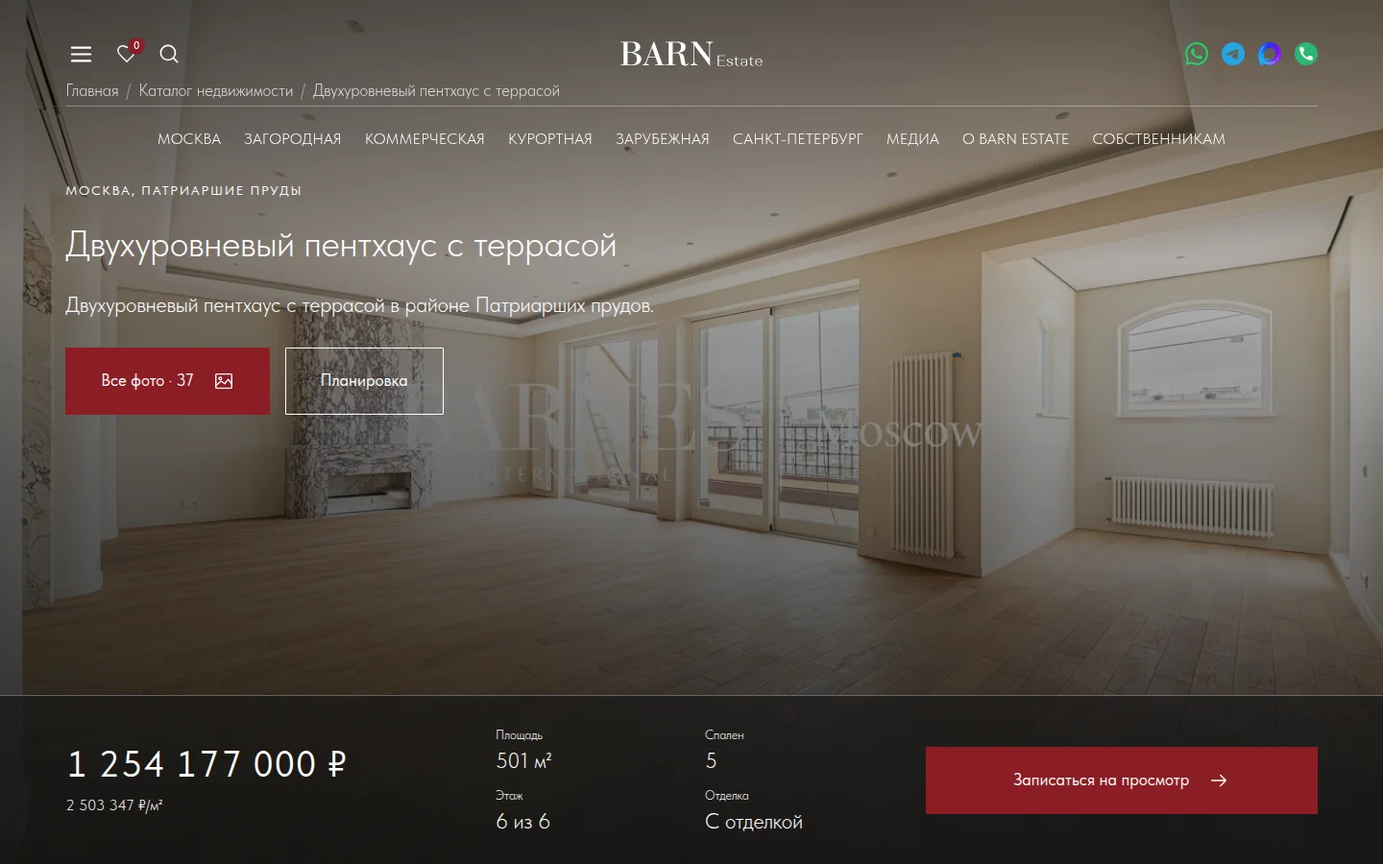
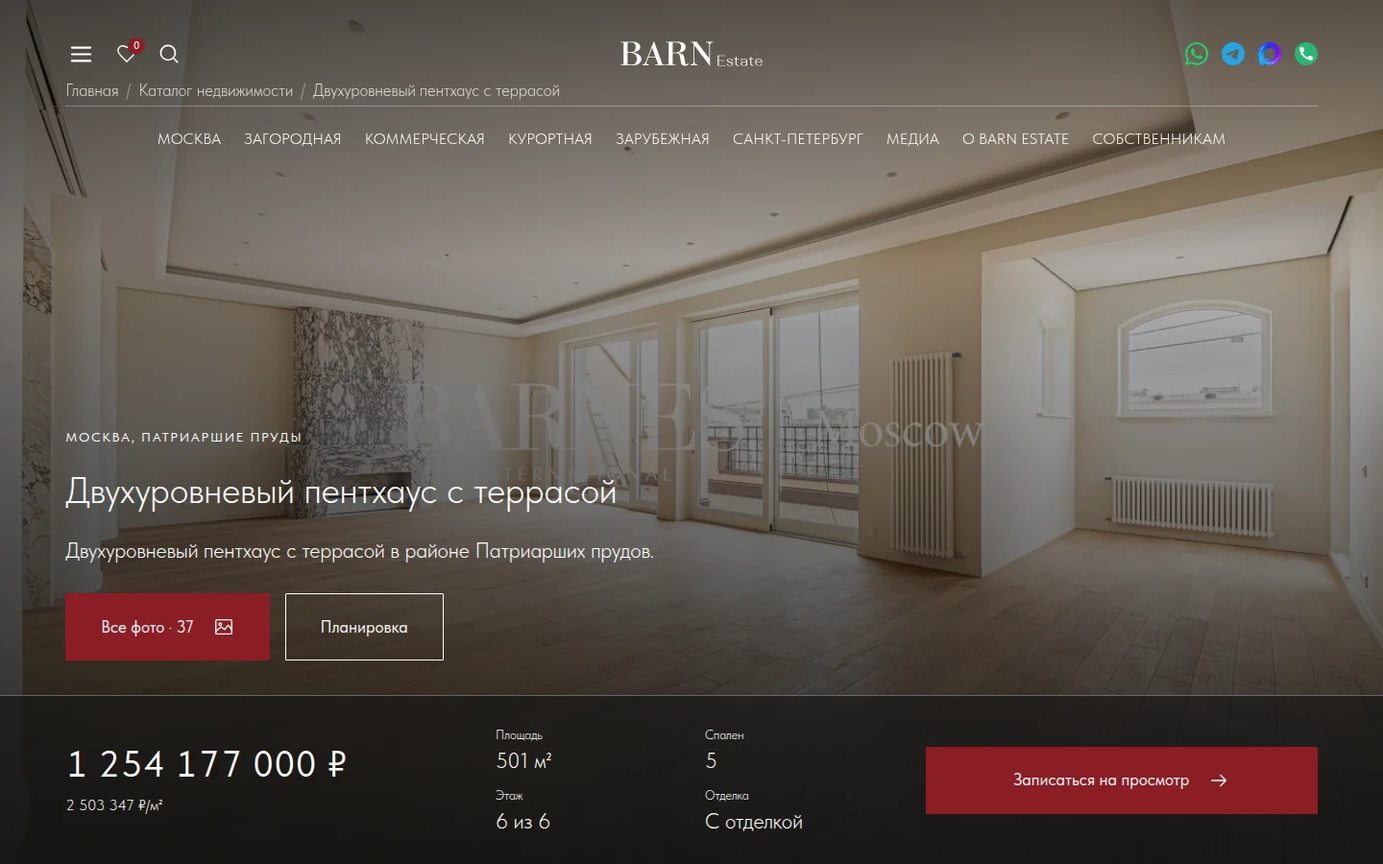
lot: publish hero 3 with title at bottom of photo

diff --git a/stranitsa-lota/hero-options/index.html b/stranitsa-lota/hero-options/index.html
@@ -1,1 +1,1 @@
-<!doctype html><html lang="ru"><head><meta charset="utf-8"><meta name="viewport" content="width=device-width,initial-scale=1"><meta name="robots" content="noindex,nofollow"><title>Пять полноэкранных херо — BARN Estate</title><style>@font-face{font-family:Tilda Sans;src:url('../fonts/TildaSans-Light.woff2') format('woff2');font-weight:300;font-display:swap}@font-face{font-family:Tilda Sans;src:url('../fonts/TildaSans-Regular.woff2') format('woff2');font-weight:400;font-display:swap}*{box-sizing:border-box}body{margin:0;color:#1e1e1e;background:#fff;font:300 18px/1.5 'Tilda Sans',Arial,sans-serif}a{color:inherit}header,main{max-width:1920px;margin:auto;padding-inline:clamp(24px,calc(-26.66667px + 6.59722vw),100px)}header{display:flex;align-items:center;justify-content:space-between;gap:24px;padding-block:28px;border-bottom:1px solid #d8d6d2}header img{width:172px;height:48px}header a:last-child{font-size:15px;text-underline-offset:4px}main{padding-block:72px 100px}h1{font-size:44px;line-height:1.2;font-weight:300;max-width:920px;margin:0}main>p{font-size:22px;line-height:33px;color:#4f4d49;max-width:970px;margin:24px 0 0}.eyebrow{font-size:14px;font-weight:400;letter-spacing:.12em;text-transform:uppercase;color:#4f4d49;margin:0}.quick-links{display:flex;gap:12px;flex-wrap:wrap;margin:32px 0 48px}.quick-links a{display:flex;align-items:center;justify-content:center;width:44px;height:44px;text-decoration:none;border:1px solid #8b8986;border-radius:1px;font-size:17px;font-weight:400}.cards{display:grid;grid-template-columns:1fr 1fr;gap:64px 40px}article{border-top:1px solid #d8d6d2;padding-top:24px;scroll-margin-top:24px}article:last-child{grid-column:1/-1;max-width:950px}.card-top{display:flex;align-items:center;justify-content:space-between;gap:20px}.recommend{font-size:13px;line-height:18px;color:#8b1d25}.cards h2{font-size:28px;line-height:1.2;font-weight:300;margin:20px 0 28px}.shots{display:grid;grid-template-columns:minmax(0,1fr) 88px;gap:12px;background:#f7f6f4;padding:12px;align-items:center}.shots img{width:100%;height:auto;display:block}.shots .phone{border:1px solid #d8d6d2}.description{font-size:20px;line-height:1.5;margin:24px 0 12px}.why{font-size:16px;line-height:1.5;color:#656462;margin:0 0 24px}.button{display:inline-flex;align-items:center;justify-content:space-between;gap:32px;min-height:70px;padding:16px 36px;background:#8b1d25;border:1px solid #8b1d25;border-radius:1px;font-size:17px;line-height:1.1;font-weight:400;color:#fff;text-decoration:none}.button span{font-size:22px}a:focus-visible{outline:2px solid #8b1d25;outline-offset:5px}@media(min-width:1441px){.button{font-size:19px;padding-inline:47px}}@media(max-width:900px){.cards{grid-template-columns:1fr;gap:48px}.cards article:last-child{grid-column:auto}}@media(max-width:540px){header,main{padding-inline:22px}header{padding-block:20px;gap:16px}header img{width:130px;height:36px}header a:last-child{font-size:13px}main{padding-block:48px}h1{font-size:22px}.eyebrow{font-size:12px}main>p{font-size:15px;line-height:21px;margin-top:16px}.quick-links{margin-bottom:32px}.cards h2{font-size:22px;margin-block:16px 24px}.shots{display:block;padding:0}.shots .phone{display:none}.description{font-size:17px;margin-top:20px}.why{font-size:15px}.button{width:100%;min-height:58px;padding:14px 24px;font-size:18px}}@media(prefers-reduced-motion:reduce){*{scroll-behavior:auto!important}}</style></head><body><header><a href="../"><img src="../kit/assets/logo.svg" alt="BARN Estate" width="172" height="48"></a><a href="../">К странице лота</a></header><main><p class="eyebrow" style="margin-bottom:24px">Страница лота · выбор первого экрана</p><h1>Пять вариантов с фотографией на весь экран</h1><p>Во всех вариантах фотография занимает весь первый экран. Меняется расположение названия, стоимости и действий. Шрифты, цвета и кнопки — из нашего UI-кита.</p><nav class="quick-links" aria-label="Варианты херо"><a href="#variant-1" aria-label="Вариант 1">01</a><a href="#variant-2" aria-label="Вариант 2">02</a><a href="#variant-3" aria-label="Вариант 3">03</a><a href="#variant-4" aria-label="Вариант 4">04</a><a href="#variant-5" aria-label="Вариант 5">05</a></nav><div class="cards"><article id="variant-1"><div class="card-top"><p class="eyebrow">Вариант 01</p><span class="recommend">Рекомендую</span></div><h2>Текст поверх фотографии</h2><a class="shots" href="../?hero=1&amp;v=hero-options-20261110" aria-label="Открыть вариант 1: Текст поверх фотографии"><img src="previews/1-desktop.webp" width="1440" height="900" alt="Вариант 1 на компьютере" loading="lazy"><img class="phone" src="previews/1-mobile.webp" width="390" height="844" alt="Вариант 1 на телефоне" loading="lazy"></a><p class="description">Название и описание слева, цена и запись справа. Максимум фотографии и минимум отдельных панелей.</p><p class="why">Спокойный и универсальный вариант.</p><a class="button" href="../?hero=1&amp;v=hero-options-20261110">Открыть вариант 1<span aria-hidden="true">↗</span></a></article><article id="variant-2"><div class="card-top"><p class="eyebrow">Вариант 02</p></div><h2>Белая карточка</h2><a class="shots" href="../?hero=2&amp;v=hero-options-20261110" aria-label="Открыть вариант 2: Белая карточка"><img src="previews/2-desktop.webp" width="1440" height="900" alt="Вариант 2 на компьютере" loading="lazy"><img class="phone" src="previews/2-mobile.webp" width="390" height="844" alt="Вариант 2 на телефоне" loading="lazy"></a><p class="description">Фотография продолжается за карточкой с ценой, параметрами и брокером. На телефоне карточка становится компактной.</p><p class="why">Самый привычный сценарий выбора объекта.</p><a class="button" href="../?hero=2&amp;v=hero-options-20261110">Открыть вариант 2<span aria-hidden="true">↗</span></a></article><article id="variant-3"><div class="card-top"><p class="eyebrow">Вариант 03</p></div><h2>Нижняя плашка</h2><a class="shots" href="../?hero=3&amp;v=hero-options-20261110" aria-label="Открыть вариант 3: Нижняя плашка"><img src="previews/3-desktop.webp" width="1440" height="900" alt="Вариант 3 на компьютере" loading="lazy"><img class="phone" src="previews/3-mobile.webp" width="390" height="844" alt="Вариант 3 на телефоне" loading="lazy"></a><p class="description">Название в верхней части кадра, а стоимость, основные параметры и запись — в одной нижней полосе.</p><p class="why">Больше свободного места в центре фотографии.</p><a class="button" href="../?hero=3&amp;v=hero-options-20261110">Открыть вариант 3<span aria-hidden="true">↗</span></a></article><article id="variant-4"><div class="card-top"><p class="eyebrow">Вариант 04</p></div><h2>Композиция по центру</h2><a class="shots" href="../?hero=4&amp;v=hero-options-20261110" aria-label="Открыть вариант 4: Композиция по центру"><img src="previews/4-desktop.webp" width="1440" height="900" alt="Вариант 4 на компьютере" loading="lazy"><img class="phone" src="previews/4-mobile.webp" width="390" height="844" alt="Вариант 4 на телефоне" loading="lazy"></a><p class="description">Название, описание и галерея собраны по центральной оси. Цена и просмотр — ниже, на той же оси.</p><p class="why">Подходит для акцентного архитектурного или интерьерного кадра.</p><a class="button" href="../?hero=4&amp;v=hero-options-20261110">Открыть вариант 4<span aria-hidden="true">↗</span></a></article><article id="variant-5"><div class="card-top"><p class="eyebrow">Вариант 05</p></div><h2>Лента кадров</h2><a class="shots" href="../?hero=5&amp;v=hero-options-20261110" aria-label="Открыть вариант 5: Лента кадров"><img src="previews/5-desktop.webp" width="1440" height="900" alt="Вариант 5 на компьютере" loading="lazy"><img class="phone" src="previews/5-mobile.webp" width="390" height="844" alt="Вариант 5 на телефоне" loading="lazy"></a><p class="description">Полноэкранная фотография с тремя миниатюрами для переключения. Название и стоимость остаются поверх изображения.</p><p class="why">Позволяет начать изучение квартиры прямо с первого экрана.</p><a class="button" href="../?hero=5&amp;v=hero-options-20261110">Открыть вариант 5<span aria-hidden="true">↗</span></a></article></div></main></body></html>
+<!doctype html><html lang="ru"><head><meta charset="utf-8"><meta name="viewport" content="width=device-width,initial-scale=1"><meta name="robots" content="noindex,nofollow"><title>Пять полноэкранных херо — BARN Estate</title><style>@font-face{font-family:Tilda Sans;src:url('../fonts/TildaSans-Light.woff2') format('woff2');font-weight:300;font-display:swap}@font-face{font-family:Tilda Sans;src:url('../fonts/TildaSans-Regular.woff2') format('woff2');font-weight:400;font-display:swap}*{box-sizing:border-box}body{margin:0;color:#1e1e1e;background:#fff;font:300 18px/1.5 'Tilda Sans',Arial,sans-serif}a{color:inherit}header,main{max-width:1920px;margin:auto;padding-inline:clamp(24px,calc(-26.66667px + 6.59722vw),100px)}header{display:flex;align-items:center;justify-content:space-between;gap:24px;padding-block:28px;border-bottom:1px solid #d8d6d2}header img{width:172px;height:48px}header a:last-child{font-size:15px;text-underline-offset:4px}main{padding-block:72px 100px}h1{font-size:44px;line-height:1.2;font-weight:300;max-width:920px;margin:0}main>p{font-size:22px;line-height:33px;color:#4f4d49;max-width:970px;margin:24px 0 0}.eyebrow{font-size:14px;font-weight:400;letter-spacing:.12em;text-transform:uppercase;color:#4f4d49;margin:0}.quick-links{display:flex;gap:12px;flex-wrap:wrap;margin:32px 0 48px}.quick-links a{display:flex;align-items:center;justify-content:center;width:44px;height:44px;text-decoration:none;border:1px solid #8b8986;border-radius:1px;font-size:17px;font-weight:400}.cards{display:grid;grid-template-columns:1fr 1fr;gap:64px 40px}article{border-top:1px solid #d8d6d2;padding-top:24px;scroll-margin-top:24px}article:last-child{grid-column:1/-1;max-width:950px}.card-top{display:flex;align-items:center;justify-content:space-between;gap:20px}.recommend{font-size:13px;line-height:18px;color:#8b1d25}.cards h2{font-size:28px;line-height:1.2;font-weight:300;margin:20px 0 28px}.shots{display:grid;grid-template-columns:minmax(0,1fr) 88px;gap:12px;background:#f7f6f4;padding:12px;align-items:center}.shots img{width:100%;height:auto;display:block}.shots .phone{border:1px solid #d8d6d2}.description{font-size:20px;line-height:1.5;margin:24px 0 12px}.why{font-size:16px;line-height:1.5;color:#656462;margin:0 0 24px}.button{display:inline-flex;align-items:center;justify-content:space-between;gap:32px;min-height:70px;padding:16px 36px;background:#8b1d25;border:1px solid #8b1d25;border-radius:1px;font-size:17px;line-height:1.1;font-weight:400;color:#fff;text-decoration:none}.button span{font-size:22px}a:focus-visible{outline:2px solid #8b1d25;outline-offset:5px}@media(min-width:1441px){.button{font-size:19px;padding-inline:47px}}@media(max-width:900px){.cards{grid-template-columns:1fr;gap:48px}.cards article:last-child{grid-column:auto}}@media(max-width:540px){header,main{padding-inline:22px}header{padding-block:20px;gap:16px}header img{width:130px;height:36px}header a:last-child{font-size:13px}main{padding-block:48px}h1{font-size:22px}.eyebrow{font-size:12px}main>p{font-size:15px;line-height:21px;margin-top:16px}.quick-links{margin-bottom:32px}.cards h2{font-size:22px;margin-block:16px 24px}.shots{display:block;padding:0}.shots .phone{display:none}.description{font-size:17px;margin-top:20px}.why{font-size:15px}.button{width:100%;min-height:58px;padding:14px 24px;font-size:18px}}@media(prefers-reduced-motion:reduce){*{scroll-behavior:auto!important}}</style></head><body><header><a href="../"><img src="../kit/assets/logo.svg" alt="BARN Estate" width="172" height="48"></a><a href="../">К странице лота</a></header><main><p class="eyebrow" style="margin-bottom:24px">Страница лота · выбор первого экрана</p><h1>Пять вариантов с фотографией на весь экран</h1><p>Во всех вариантах фотография занимает весь первый экран. Меняется расположение названия, стоимости и действий. Шрифты, цвета и кнопки — из нашего UI-кита.</p><nav class="quick-links" aria-label="Варианты херо"><a href="#variant-1" aria-label="Вариант 1">01</a><a href="#variant-2" aria-label="Вариант 2">02</a><a href="#variant-3" aria-label="Вариант 3">03</a><a href="#variant-4" aria-label="Вариант 4">04</a><a href="#variant-5" aria-label="Вариант 5">05</a></nav><div class="cards"><article id="variant-1"><div class="card-top"><p class="eyebrow">Вариант 01</p><span class="recommend">Рекомендую</span></div><h2>Текст поверх фотографии</h2><a class="shots" href="../?hero=1&amp;v=hero-options-20261110" aria-label="Открыть вариант 1: Текст поверх фотографии"><img src="previews/1-desktop.webp" width="1440" height="900" alt="Вариант 1 на компьютере" loading="lazy"><img class="phone" src="previews/1-mobile.webp" width="390" height="844" alt="Вариант 1 на телефоне" loading="lazy"></a><p class="description">Название и описание слева, цена и запись справа. Максимум фотографии и минимум отдельных панелей.</p><p class="why">Спокойный и универсальный вариант.</p><a class="button" href="../?hero=1&amp;v=hero-options-20261110">Открыть вариант 1<span aria-hidden="true">↗</span></a></article><article id="variant-2"><div class="card-top"><p class="eyebrow">Вариант 02</p></div><h2>Белая карточка</h2><a class="shots" href="../?hero=2&amp;v=hero-options-20261110" aria-label="Открыть вариант 2: Белая карточка"><img src="previews/2-desktop.webp" width="1440" height="900" alt="Вариант 2 на компьютере" loading="lazy"><img class="phone" src="previews/2-mobile.webp" width="390" height="844" alt="Вариант 2 на телефоне" loading="lazy"></a><p class="description">Фотография продолжается за карточкой с ценой, параметрами и брокером. На телефоне карточка становится компактной.</p><p class="why">Самый привычный сценарий выбора объекта.</p><a class="button" href="../?hero=2&amp;v=hero-options-20261110">Открыть вариант 2<span aria-hidden="true">↗</span></a></article><article id="variant-3"><div class="card-top"><p class="eyebrow">Вариант 03</p></div><h2>Нижняя плашка</h2><a class="shots" href="../?hero=3&amp;v=hero3-bottom-20261110" aria-label="Открыть вариант 3: Нижняя плашка"><img src="previews/3-desktop.webp?v=bottom" width="1440" height="900" alt="Вариант 3 на компьютере" loading="lazy"><img class="phone" src="previews/3-mobile.webp?v=bottom" width="390" height="844" alt="Вариант 3 на телефоне" loading="lazy"></a><p class="description">Название, описание и кнопки опущены вниз, прямо над полосой с ценой, параметрами и записью.</p><p class="why">Верхняя часть фотографии остаётся свободной.</p><a class="button" href="../?hero=3&amp;v=hero3-bottom-20261110">Открыть вариант 3<span aria-hidden="true">↗</span></a></article><article id="variant-4"><div class="card-top"><p class="eyebrow">Вариант 04</p></div><h2>Композиция по центру</h2><a class="shots" href="../?hero=4&amp;v=hero-options-20261110" aria-label="Открыть вариант 4: Композиция по центру"><img src="previews/4-desktop.webp" width="1440" height="900" alt="Вариант 4 на компьютере" loading="lazy"><img class="phone" src="previews/4-mobile.webp" width="390" height="844" alt="Вариант 4 на телефоне" loading="lazy"></a><p class="description">Название, описание и галерея собраны по центральной оси. Цена и просмотр — ниже, на той же оси.</p><p class="why">Подходит для акцентного архитектурного или интерьерного кадра.</p><a class="button" href="../?hero=4&amp;v=hero-options-20261110">Открыть вариант 4<span aria-hidden="true">↗</span></a></article><article id="variant-5"><div class="card-top"><p class="eyebrow">Вариант 05</p></div><h2>Лента кадров</h2><a class="shots" href="../?hero=5&amp;v=hero-options-20261110" aria-label="Открыть вариант 5: Лента кадров"><img src="previews/5-desktop.webp" width="1440" height="900" alt="Вариант 5 на компьютере" loading="lazy"><img class="phone" src="previews/5-mobile.webp" width="390" height="844" alt="Вариант 5 на телефоне" loading="lazy"></a><p class="description">Полноэкранная фотография с тремя миниатюрами для переключения. Название и стоимость остаются поверх изображения.</p><p class="why">Позволяет начать изучение квартиры прямо с первого экрана.</p><a class="button" href="../?hero=5&amp;v=hero-options-20261110">Открыть вариант 5<span aria-hidden="true">↗</span></a></article></div></main></body></html>

diff --git a/stranitsa-lota/hero-variants.css b/stranitsa-lota/hero-variants.css
@@ -108,10 +108,16 @@ body[data-hero-variant="2"] .lot-offer__facts dt {color:var(--muted)}
 body[data-hero-variant="2"] .lot-offer .text-link {color:var(--brand)}
 body[data-hero-variant="2"] .lot-offer .lot-price {font-size:32px}
 body[data-hero-variant="2"] .lot-hero__copy {width:calc(100% - 540px - var(--hero-inset));max-width:840px}
-/* 3 — image and title above a horizontal bottom passport. */
-body[data-hero-variant="3"] .lot-hero__copy {top:var(--hero-top);bottom:auto;width:min(66%,950px)}
+/* 3 — title and actions sit directly above the horizontal bottom passport. */
+body[data-hero-variant="3"] .lot-hero {display:flex;flex-direction:column;justify-content:flex-end}
+body[data-hero-variant="3"] .lot-hero__copy {
+  position:relative;z-index:1;top:auto;bottom:auto;left:auto;
+  width:min(66%,950px);
+  margin:0 max(var(--hero-inset),calc((100vw - 1920px)/2)) 36px;
+}
 body[data-hero-variant="3"] .lot-hero__actions {margin-top:28px}
 body[data-hero-variant="3"] .lot-offer {
+  position:relative;flex:none;
   display:grid;
   grid-template-columns:1fr 1fr 1fr;
   align-items:center;
@@ -196,7 +202,7 @@ body[data-hero-variant="5"] .lot-offer__actions .text-link {display:none}
   body[data-hero-variant="2"] .lot-offer__facts {display:none}
   body[data-hero-variant="2"] .lot-offer .lot-price {font-size:clamp(24px,7.5vw,30px)}
   body[data-hero-variant="2"] .lot-hero__copy {bottom:300px}
-  body[data-hero-variant="3"] .lot-hero__copy {top:140px;bottom:auto}
+  body[data-hero-variant="3"] .lot-hero__copy {top:auto;bottom:auto;left:auto;width:calc(100% - 44px);margin:0 22px 28px}
   body[data-hero-variant="3"] .lot-offer {left:0;right:0;bottom:0;width:100%;display:block;padding:24px 22px}
   body[data-hero-variant="3"] .lot-offer__actions {margin-top:20px}
   body[data-hero-variant="4"] .lot-hero__copy {top:42%;bottom:auto;left:50%;width:calc(100% - 44px)}

diff --git a/stranitsa-lota/lot-page.js b/stranitsa-lota/lot-page.js
@@ -125,7 +125,9 @@
     else offerActions.append(action('Запросить презентацию', 'presentation', 'text-link'));
     offer.append(offerActions);
     if (data.demo) offer.append(el('p', 'Архивный пример. Актуальную цену и доступность уточните у брокера.', 'lot-offer__notice'));
-    hero.append(visual, offer); main.append(hero);
+    hero.append(visual, offer);
+    if (document.body.dataset.heroVariant === '3') hero.insertBefore(copy, offer);
+    main.append(hero);
     if (document.body.dataset.heroVariant === '5') {
       const filmstrip = el('div', null, 'hero-filmstrip'); filmstrip.setAttribute('aria-label', 'Выбрать фотографию первого экрана');
       (data.gallery?.length ? data.gallery : [data.cover]).slice(0, 3).forEach((photo, index) => {

diff --git a/stranitsa-lota/README.md b/stranitsa-lota/README.md
@@ -1,3 +1,5 @@
+[Вариант 3: заголовок и кнопки внизу фотографии · 10.11.2026](https://daniilterekh-prog.github.io/barn-estate-homepage-clone/stranitsa-lota/?hero=3&v=hero3-bottom-20261110). Проверен на 7 ширинах; [детали](https://github.com/daniilterekh-prog/barnes-sites/blob/main/main-site/pages/lot/HERO-OPTIONS.md).
+
 # Общий шаблон лота BARN Estate
 
 **Актуальная структура ·10.11.2026 · UI-кит главной v1.0.6.**
